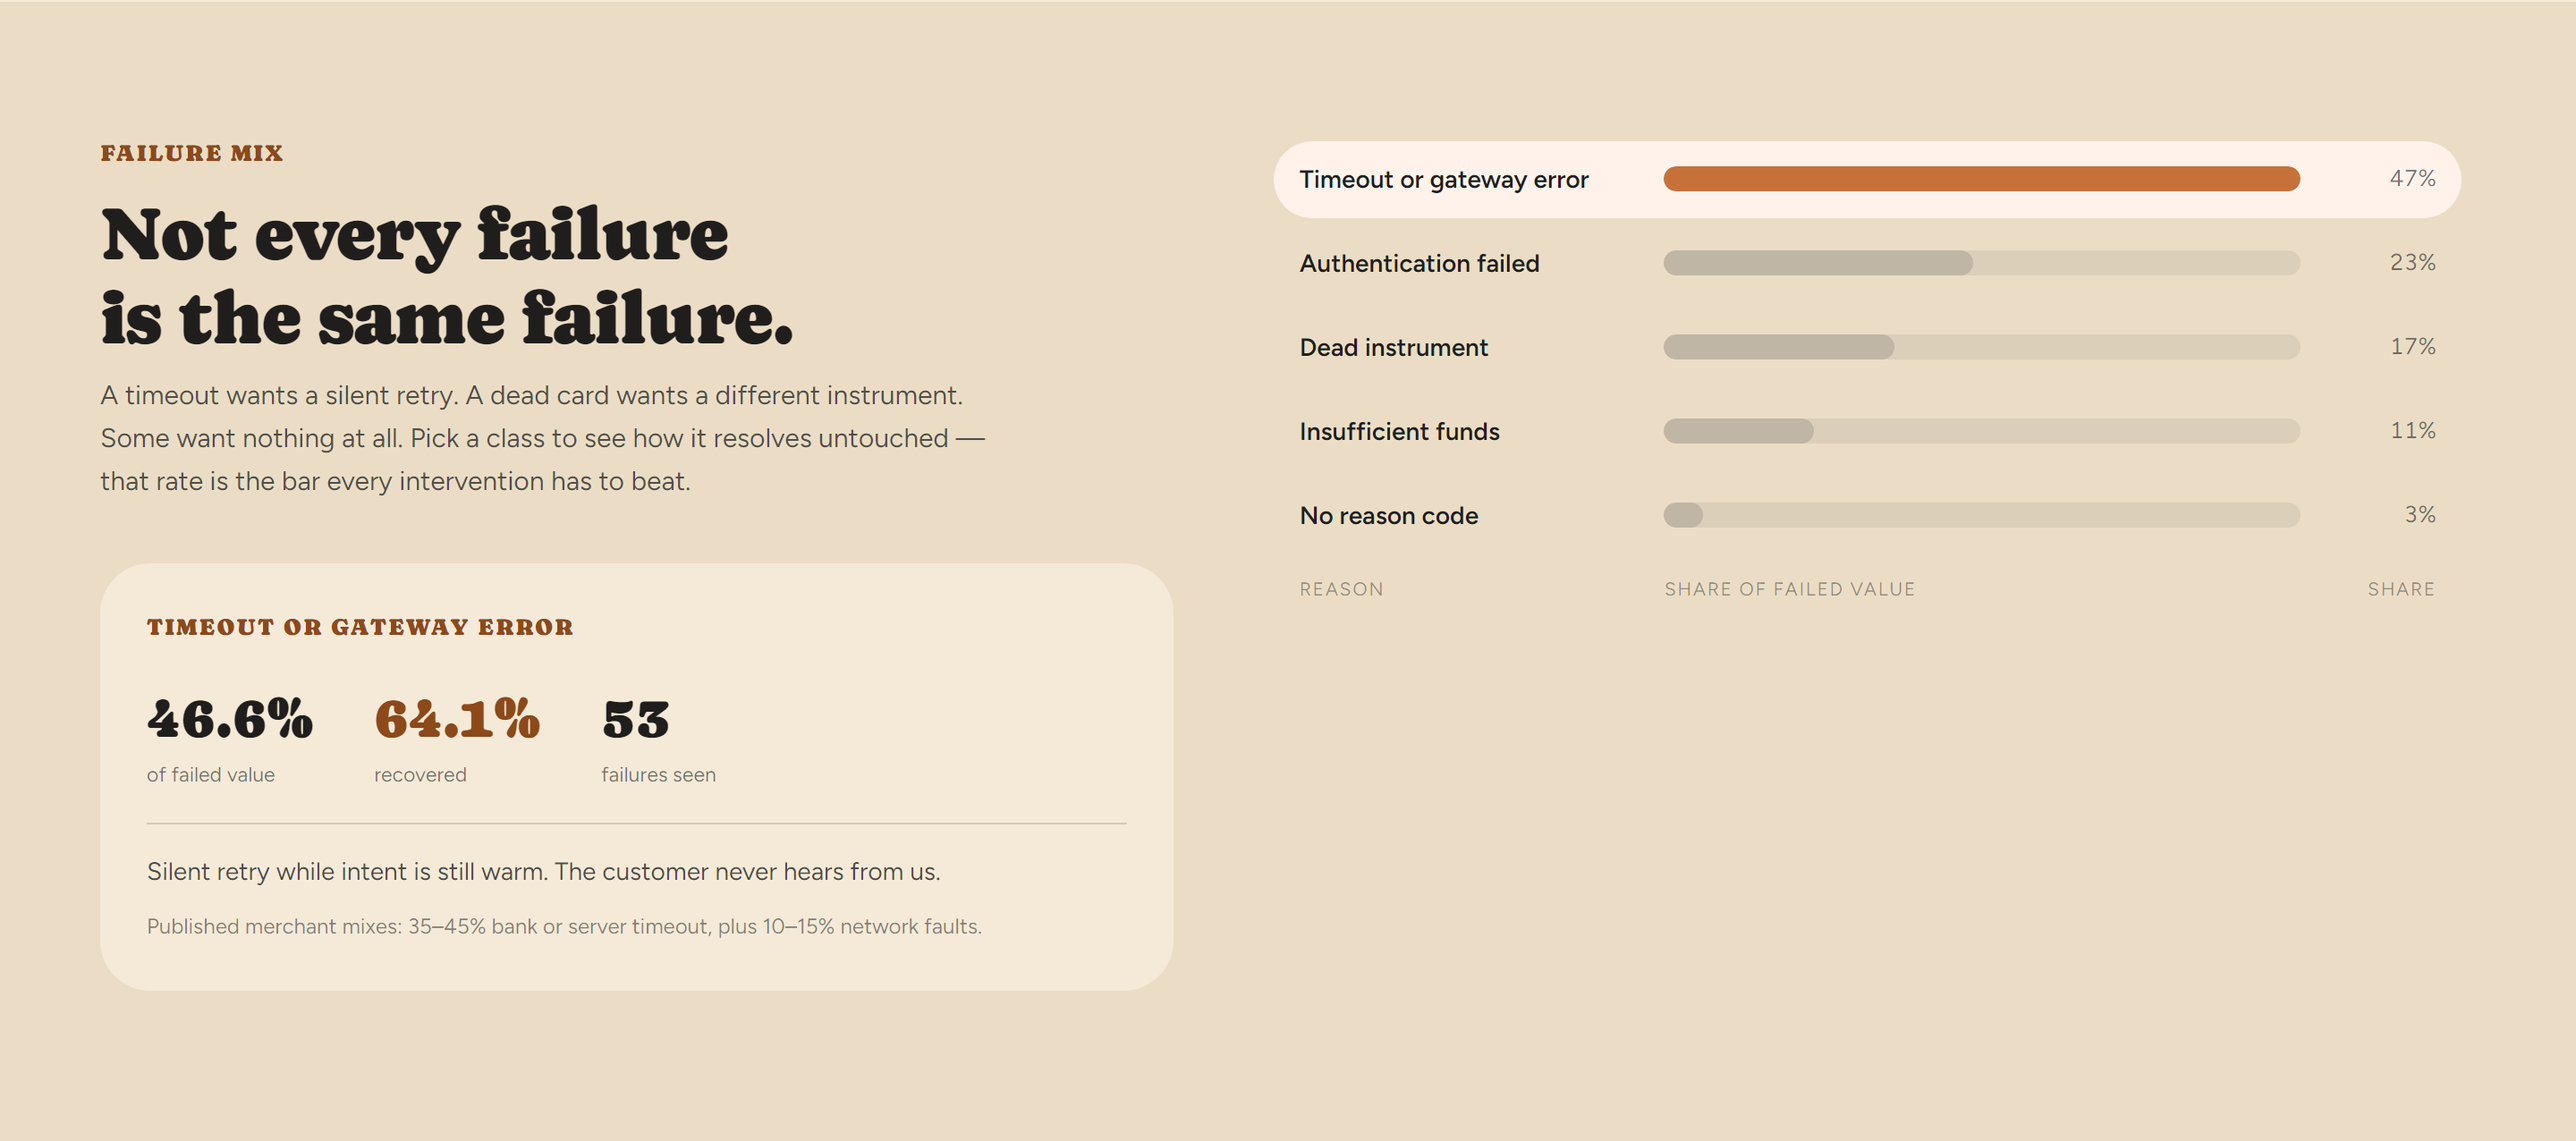
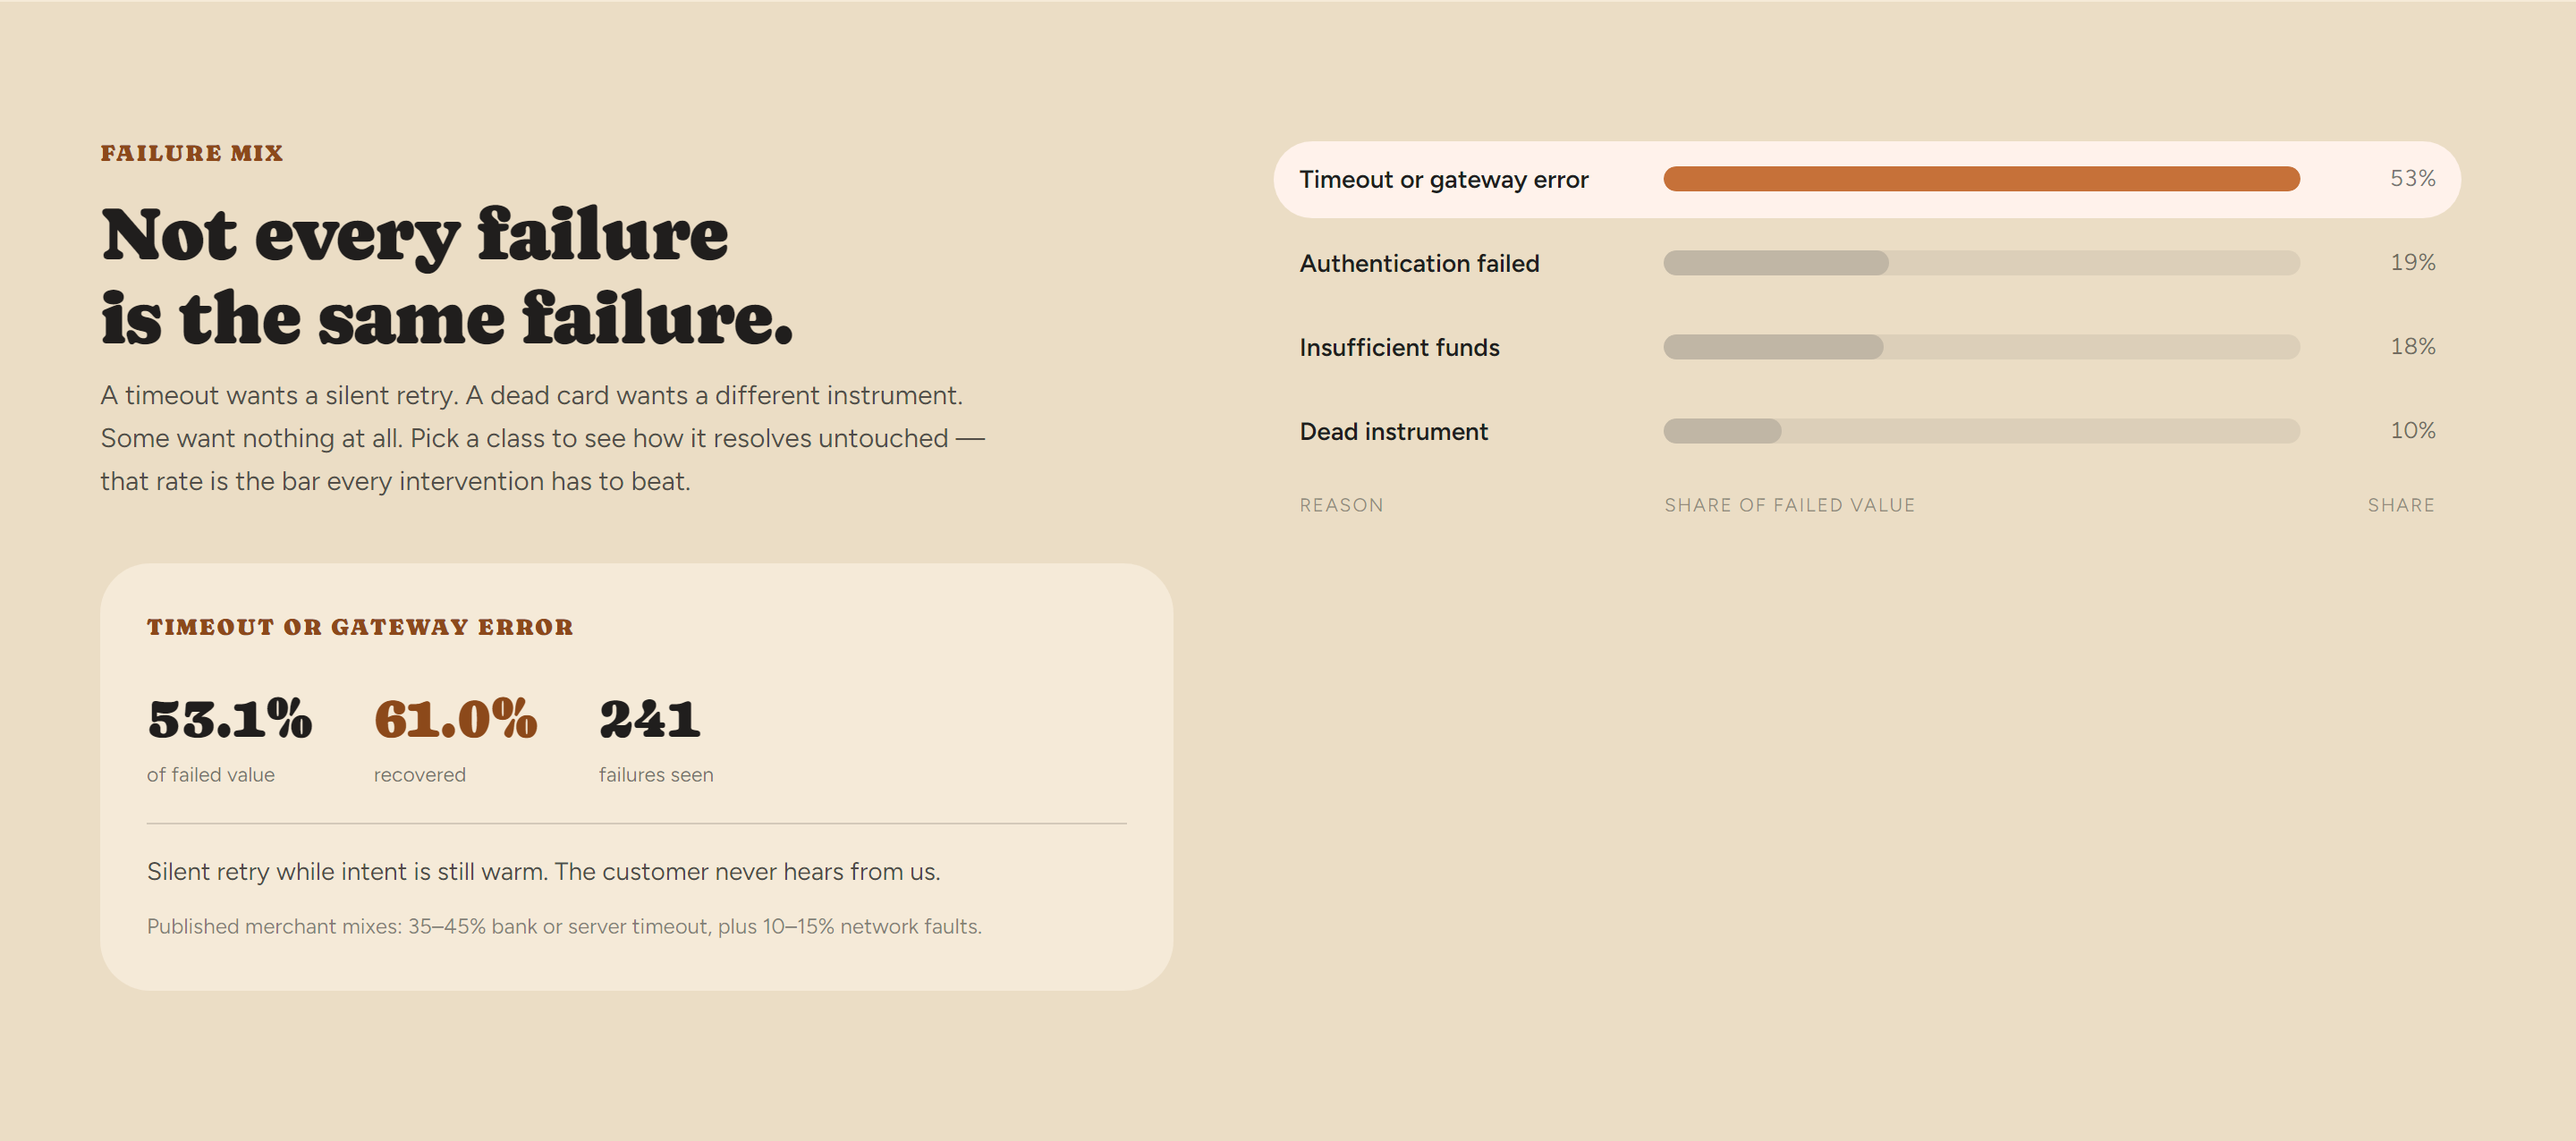
Put the measured numbers in the README instead of describing them
The README explained what the Evidence tab would show without ever showing
it, so every claim had to be taken on trust or verified by running the
thing. State the figures a seeded install actually reports -- the failure
mix, the holdout, the per-action gate, the three economics arms -- and
label their provenance, since they come from synthetic demo traffic and
are a demonstration that the measurement works rather than evidence of
real lift.

Two of those figures were wrong where the README asserted them:

* `--days 30` was documented as seeding enough volume to clear the
  experiment's sample gate. It does not. The seeder's own check wants 500
  failures and the run produces 513, so it prints no warning -- but the
  deterministic assignment is a stable hash rather than a quota, and it
  lands at 17.5% control, leaving 90 cases against a 100-case floor. Say
  what actually happens and why.
* Rounding `wait_for_native_retry` to three decimals prints AUC 0.550
  beside a rule that quarantined it for being under 0.55. Carry the
  fourth decimal so the table does not contradict itself.

Drop the "regenerate these screenshots" instruction: it addressed a
maintainer in the middle of a section a reader is reading, and the same
instructions already live in the capture script's docstring, which is
where someone regenerating them would be.

Regenerate all eleven screenshots. `06-preflight.png` was two days stale,
[…]

diff --git a/README.md b/README.md
@@ -28,32 +28,96 @@ what is closing, and what is merely waiting.
 
 Every decision keeps its full chain: the diagnosis and its evidence, each
 candidate action with its probability, cost and expected value, the policy rules
-that passed or failed, and what actually executed.
+that passed or failed, and what actually executed. The trace above is one the
+policy engine refused: the model ranked a payment link first at ₹29,686 expected
+value, and the ₹25,000 automated cap sent it to a person instead.
+
+![The preflight shown before promoting a model](docs/img/06-preflight.png)
+
+Consequential actions state their blast radius before they run, not after.
+Promotion names the artifact it replaces, the actions it will drive, the
+economics on its card, and the provenance of its training data — and says
+plainly that it changes every decision from the moment it is written.
 
 ![Offline economics benchmark](docs/img/04-economics-benchmark.png)
 
 The economics benchmark is the one worth reading closely. All three arms
 intervene on the same number of opportunities and are scored on realised
 outcomes, minus the recovery expected without any intervention, minus what the
-actions cost. Beating random selection proves nothing — expected value is
-dominated by ticket size, so sorting by amount already clears that bar. The
-number that matters is the one against the value-ranked policy.
-
-Regenerate these after a UI change with `npm run screenshots` in `frontend/`
-— against a local dev server (needs it running and a seeded baseline), or
-directly against the live install with `npm run screenshots -- <url>`.
+actions cost. The figures it currently reports are in
+[What it measures right now](#what-it-measures-right-now).
 
 ## Where the numbers come from
 
 Two kinds of figure appear, and they are never mixed:
 
 - **Claims about this system** — recovery rates, lift, the failure mix, the EV
-  gate, contact caps — are read live from the running install. Nothing on the
-  page is a hardcoded screenshot of a good day.
+  gate, contact caps — are read live from the running install. Nothing *in the
+  product* is a hardcoded figure; the numbers quoted in this README are a
+  snapshot of one seeded install, and the section below says which.
 - **Claims about the market** — the failure-rate slider's default, the
   published merchant failure mix — come from cited public sources, linked in
   the page footer. Indian merchants run 92–96% blended payment success, so 4–8%
   of attempts fail; the calculator defaults to the 6% midpoint.
+
+## What it measures right now
+
+Every figure below is read from an install seeded with the 30-day baseline
+(`--days 30`). That traffic is **synthetic**, so these demonstrate that the
+measurement works — they are not evidence of real-world lift. Reproduce them by
+seeding and reading the Evidence tab.
+
+**The failure mix** — 513 failures worth ₹61.7L. The recovery column is the rate
+each class comes back *without any intervention*, which is what every expected
+value is scored against:
+
+| Failure class | Share of failed value | Recovers untouched | n |
+| --- | --- | --- | --- |
+| Timeout or gateway error | 53.1% | 61.0% | 241 |
+| Authentication failed | 18.8% | 47.9% | 121 |
+| Insufficient funds | 18.3% | 45.8% | 96 |
+| Dead instrument | 9.8% | 32.7% | 55 |
+
+**The holdout** — 20% of opportunities are never touched:
+
+| | Treated | Untouched holdout |
+| --- | --- | --- |
+| Opportunities | 423 | 90 |
+| Recovered | 228 (53.9%) | 39 (43.3%) |
+
+That is +10.6 points, an estimated ₹5,30,185 incremental — at **z = 1.822,
+p = 0.0684**. The console prints that verdict as `Not significant · p=0.0684`
+rather than rounding it up to a lift claim, and with demo traffic switched off
+it reports `Insufficient sample` instead, because the control arm holds 90 cases
+against a 100-case floor. A number this system has not earned is a number it
+will not claim.
+
+**The promotion gate**, on the held-out test split:
+
+| Action | n | ROC-AUC | Status |
+| --- | --- | --- | --- |
+| `send_payment_link` | 545 | 0.6946 | enabled |
+| `send_reminder` | 299 | 0.6441 | enabled |
+| `wait_for_native_retry` | 146 | 0.5496 | **quarantined** — AUC below 0.55 |
+| `prompt_card_change` | 50 | 0.5390 | **quarantined** — AUC below 0.55, and n below 100 |
+
+Quarantined actions fall back to the deterministic heuristic rather than being
+switched off, so expected-value ranking keeps its full action space.
+
+**The economics benchmark**, with all three arms intervening on the same 190 of
+545 opportunities and scored net of both the do-nothing counterfactual and the
+cost of acting:
+
+| Arm | Net incremental |
+| --- | --- |
+| Model + policy | **₹10,11,598** |
+| Rank by amount, no model | ₹8,59,004 |
+| Random selection | ₹4,77,611 |
+
+The gap that counts is the first against the second — **+17.8%** — because
+ranking by amount is the strongest thing you can do without a model at all.
+Against random it would be +112%, which is why that comparison is not the one
+the gate tests.
 
 ## What is implemented
 
@@ -109,19 +173,17 @@ with a workstation's existing PostgreSQL service.
 
 ## Control-plane authentication
 
-The dashboard is intentionally frictionless only while `APP_ENV=dev` (or
-`test`/`local`) and no control-plane key is configured. For any other
-environment, set `CONTROL_PLANE_API_KEY` and send it on every state-changing
-operator request in `X-Control-Plane-Key`. Simulation start/stop, anomaly scan,
-incident response, manual re-decide, shadow-mode changes, reconciliation, and
-model promotion are protected. Set a separate `CONTROL_PLANE_ADMIN_API_KEY` to
-restrict `force: true` model promotion to an administrator. Razorpay webhooks
-remain authenticated by their signature, not this header.
+Every state-changing operator request carries `CONTROL_PLANE_API_KEY` in an
+`X-Control-Plane-Key` header: simulation start/stop, anomaly scan, incident
+response, manual re-decide, shadow-mode changes, reconciliation, and model
+promotion. A separate `CONTROL_PLANE_ADMIN_API_KEY` restricts `force: true`
+model promotion to an administrator. Razorpay webhooks are authenticated by
+their signature instead, not this header.
 
-`APP_ENV` defaults to `production`, not `dev`. That is deliberate: the
-dev/test/local values skip authentication entirely, and a deployment that
-simply never sets the variable must not inherit the convenient default. The
-checked-in `.env.example` sets `dev` explicitly for local work.
+Only `APP_ENV=dev`, `test` or `local` skips that entirely, which is why
+`APP_ENV` **defaults to `production`**: those values disable authentication, and
+a deployment that never sets the variable must not inherit the convenient
+default. The checked-in `.env.example` sets `dev` explicitly for local work.
 
 The console never holds the operator key at build time. Vite inlines
 build-time values into the public JavaScript bundle, so an earlier
@@ -168,19 +230,24 @@ limit nobody can see is indistinguishable from a bug:
 Every one of these applies only while the open-demo flag is set. A local install
 runs unrationed.
 
-One limitation worth stating rather than hiding: the shadow-mode override is
-process-local, which is correct only because the deployed install runs a single
-uvicorn worker ([`backend/startup.sh`](backend/startup.sh)). Running multiple
-workers or App Service instances would let them disagree about the execution
-mode, so that change has to come with a durable shared store for the override.
+## Concurrency, and the one limit on it
+
+The pipeline itself is replica-safe: the autonomous monitor uses Postgres-backed
+webhook claims, durable monitor events, and transaction-scoped advisory locks,
+so multiple API replicas do not double-process webhooks or scheduled
+detector/sweeper work.
+
+The shadow-mode override is the exception, and is worth stating rather than
+hiding. It lives in the process that served the request, which is correct only
+because the deployed install runs a single uvicorn worker
+([`backend/startup.sh`](backend/startup.sh)). Running several workers or App
+Service instances would let them disagree about whether execution is armed, so
+scaling out has to come with a durable shared store for that one flag.
 `/api/policy/operating-mode` reports `shadow_mode_scope` so no caller has to
 infer it.
 
-The autonomous monitor uses Postgres-backed webhook claims, durable monitor
-events, and transaction-scoped advisory locks so multiple API replicas do not
-double-process webhooks or scheduled detector/sweeper work. For a higher-volume
-production deployment, run the checked-in Alembic migrations and size the
-database/event retention policy for the merchant's traffic.
+For a higher-volume production deployment, run the checked-in Alembic migrations
+and size the database and event-retention policy for the merchant's traffic.
 
 ## Verify
 
@@ -209,9 +276,16 @@ the first thing a reviewer sees is an empty dashboard:
 # 24 hours of healthy traffic — makes the live feed and incidents meaningful
 .\.venv\Scripts\python scripts\seed_demo_baseline.py
 
-# ~2 minutes; enough volume for the holdout experiment to clear its sample gate
+# ~2 minutes; enough volume for the holdout to report a measurement
 .\.venv\Scripts\python scripts\seed_demo_baseline.py --days 30
 ```
+
+`--days 30` produces about 513 failures, which the deterministic assignment
+splits 423 treatment / 90 control — a shade under 20%, because the split is a
+stable hash of the opportunity rather than a quota. That leaves the control arm
+just below the 100-case floor, so the Evidence tab reads
+`Not significant · p=0.0684` instead of claiming a lift. Raise `--days` if you
+want it to clear the gate; the seeder prints the shortfall it computes.
 
 Seeded history is flagged `is_synthetic`. The live feed opens *including* it
 by default, exactly like the Evidence tab and the landing page's failure mix
